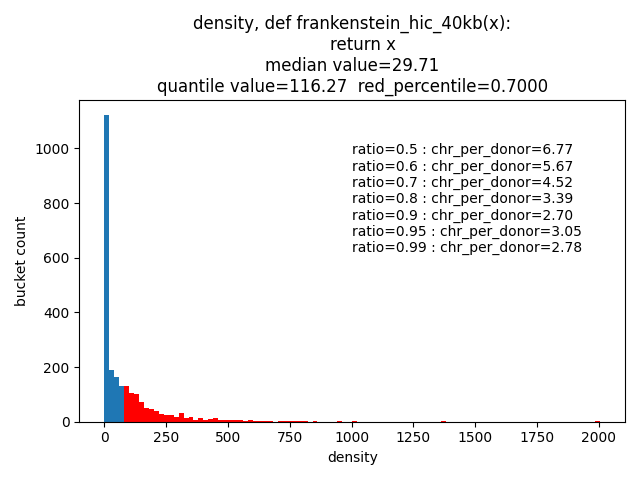
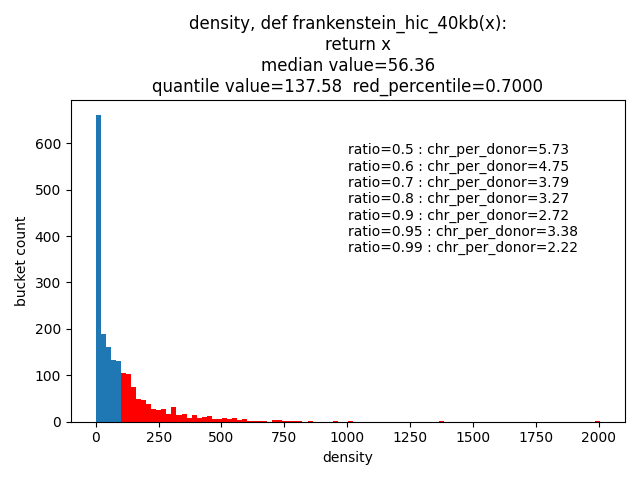
40kb dens0.0001 best params

diff --git a/DonorAnalyzer.py b/DonorAnalyzer.py
@@ -497,8 +497,8 @@ def all_hists(ratio):
                                                                                              periphery_plot=False,
                                                                                              cluster_plot=False,
                                                                                              cluster_threshold_sz=0,
-                                                                                             dens_threshold=0.000000,
-                                                                                             types5plot=False)
+                                                                                             dens_threshold=0.000001,
+                                                                                             types5plot=True)
         densss = sorted_denss[int(ratio * len(sorted_denss))]
         print(densss)
         index_ = find_first_predicate_index(sorted_denss, lambda d: d > threshold_hic_dens)

diff --git a/DenseUtils.py b/DenseUtils.py
@@ -129,6 +129,8 @@ def plot_mixed_denss(denss, to_plot, save_path):
     colors = ['green', 'red', 'blue', 'orange', 'grey']
     if to_plot:
         for i in range(n_components):
+            if bins[i] == 0:
+                continue
             plt.hist(hills[i], bins=bins[i], color= colors[i])
         create_path_if_not_exist(save_path)
         plt.savefig(save_path)
